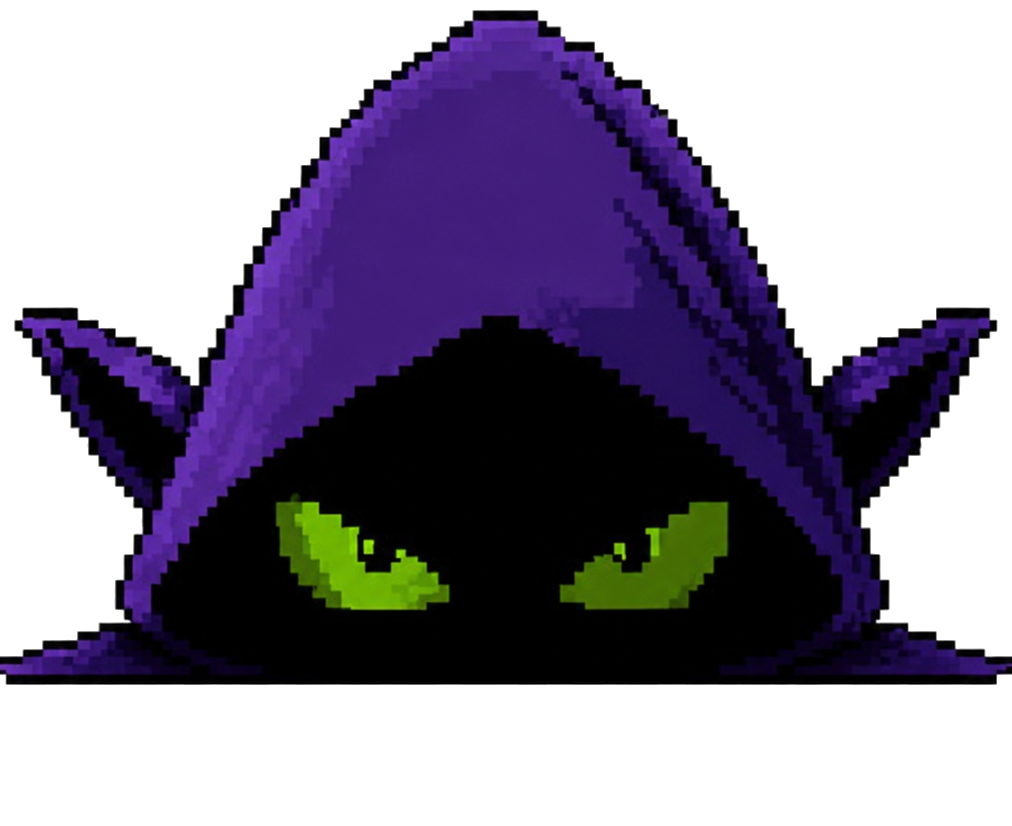
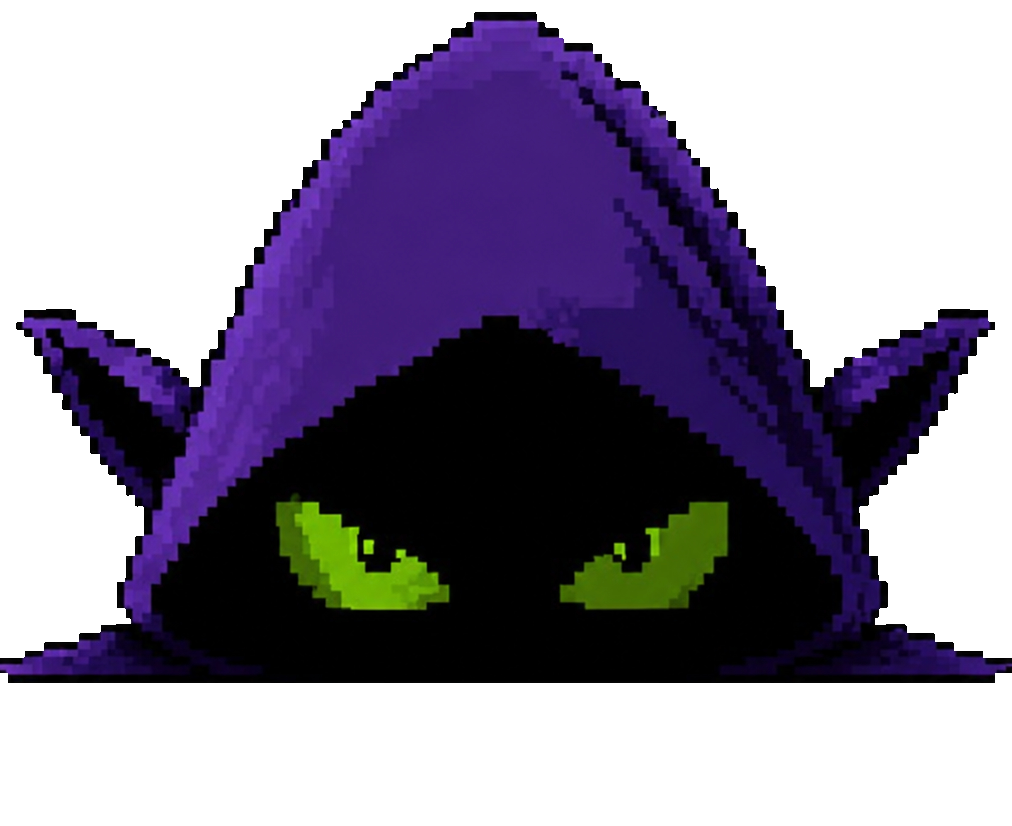
Clean goblin edges (de-fringe + alpha erode) and fade bottom with CSS mask

diff --git a/styles.css b/styles.css
@@ -204,7 +204,10 @@ a{ color:inherit; text-decoration:none; }
 @keyframes gob-bob{ 0%,100%{transform:translateY(0)} 50%{transform:translateY(-10px)} }
 @media(max-width:760px){ .goblin{ width:min(220px,52vw); opacity:.85; } }
 .goblin-img{ display:block; width:100%; height:auto; image-rendering:pixelated;
-  filter:drop-shadow(0 0 26px rgba(124,77,255,.45)); }
+  filter:drop-shadow(0 0 22px rgba(124,77,255,.3));
+  /* fade the bottom so the goblin melts into the dark — no hard image edge */
+  -webkit-mask-image:linear-gradient(to bottom, #000 74%, transparent 96%);
+          mask-image:linear-gradient(to bottom, #000 74%, transparent 96%); }
 /* glow over the eye region so the green pops */
 .goblin-eyeglow{ position:absolute; left:50%; top:64%; width:62%; height:18%;
   transform:translateX(-50%); pointer-events:none; mix-blend-mode:screen;